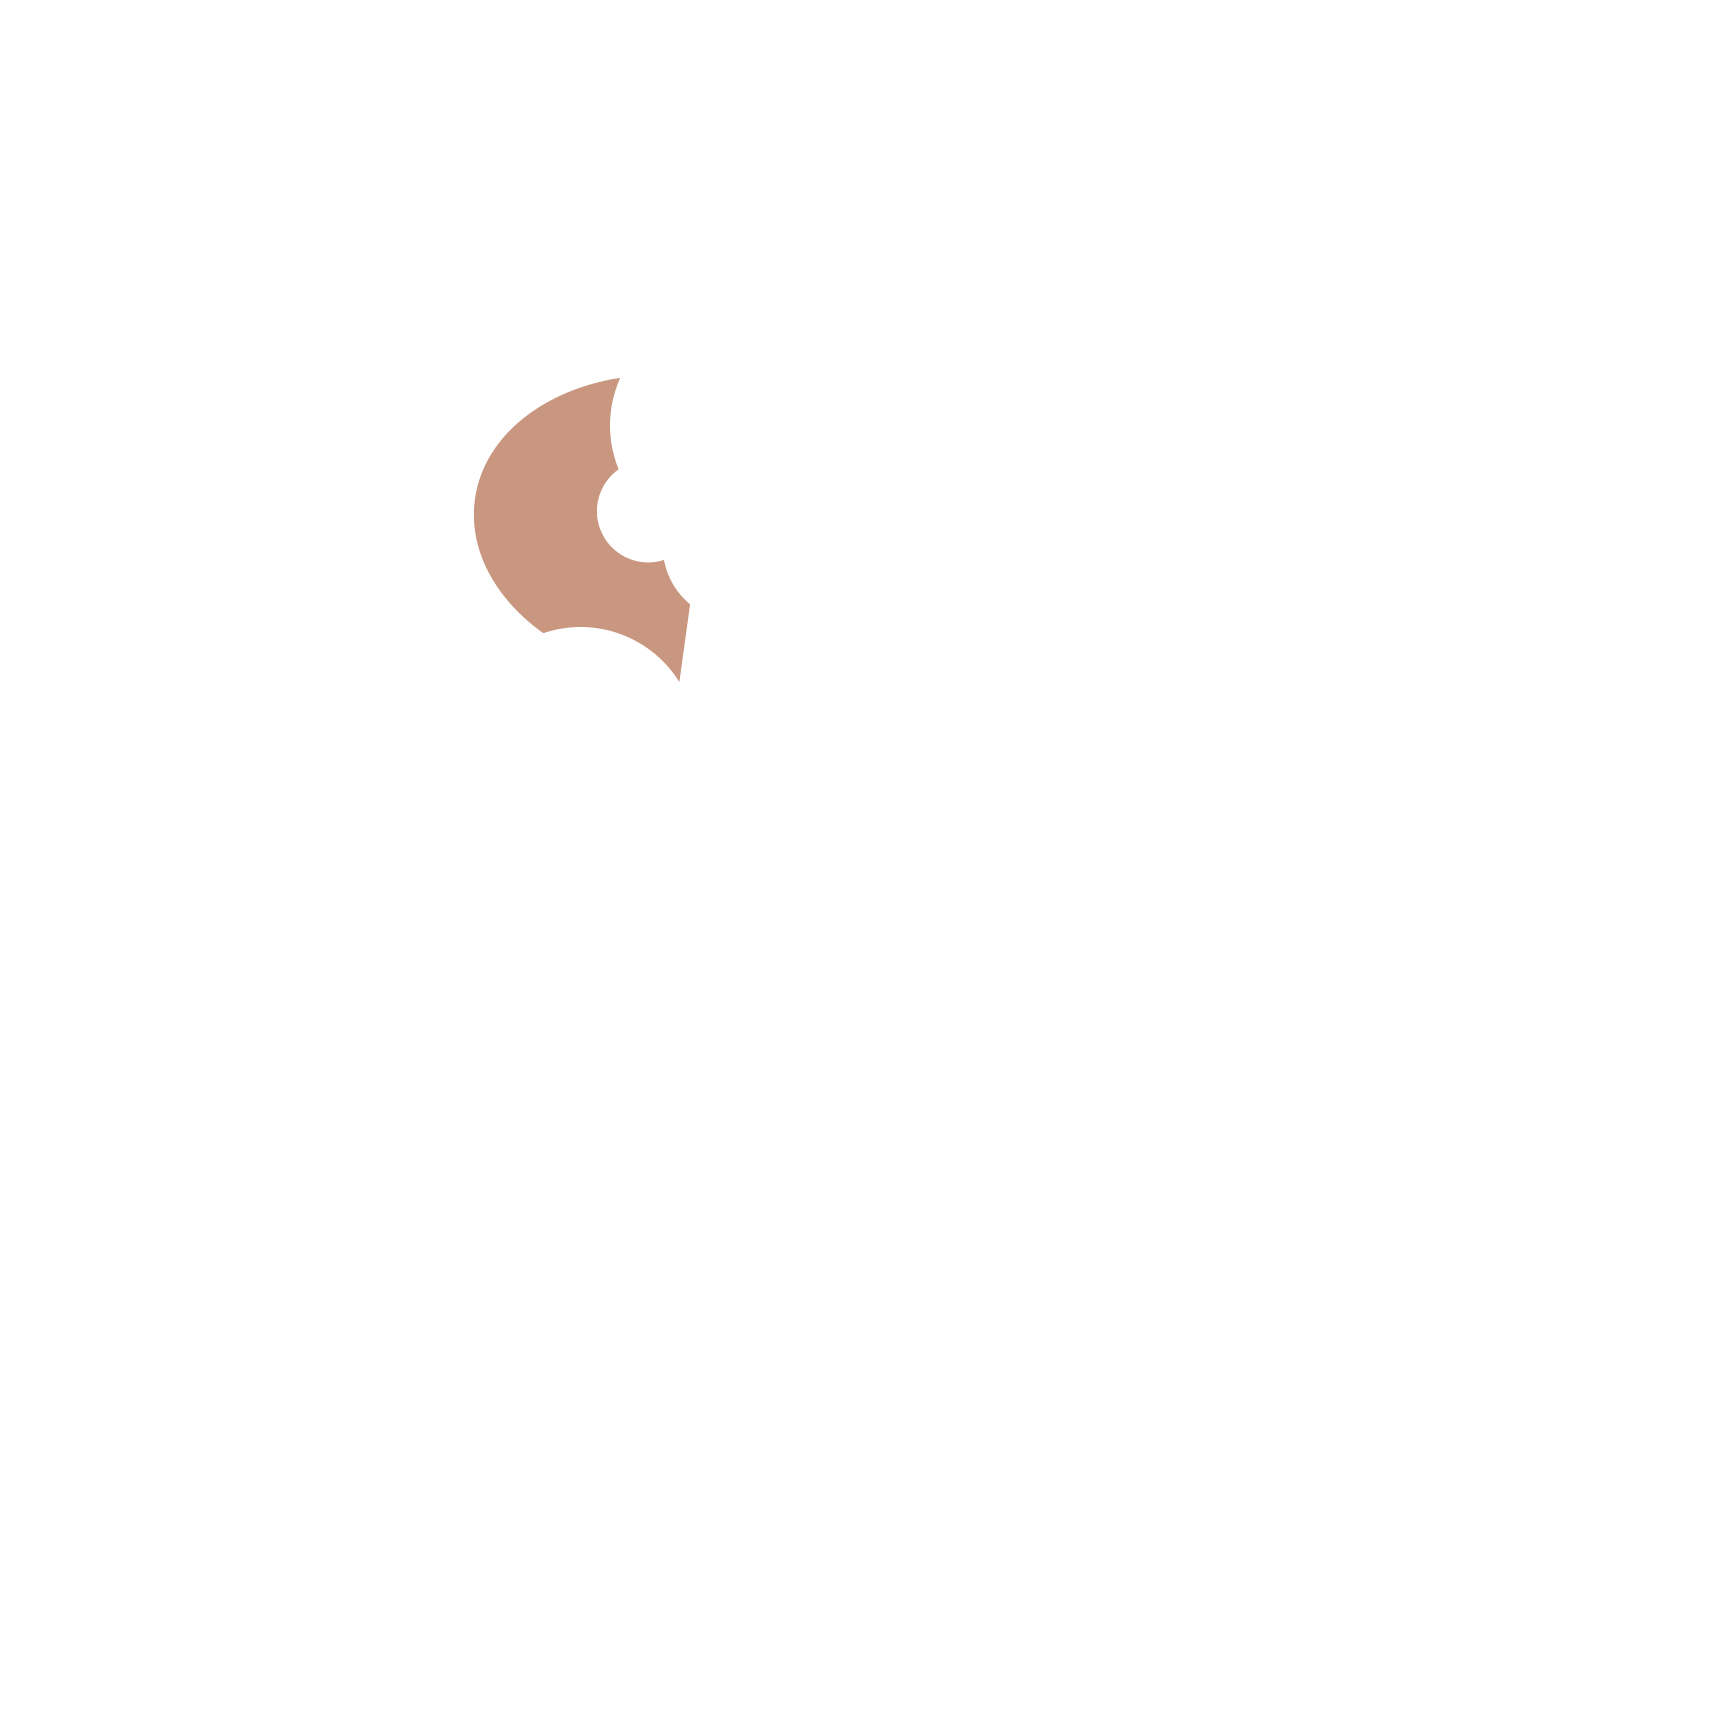
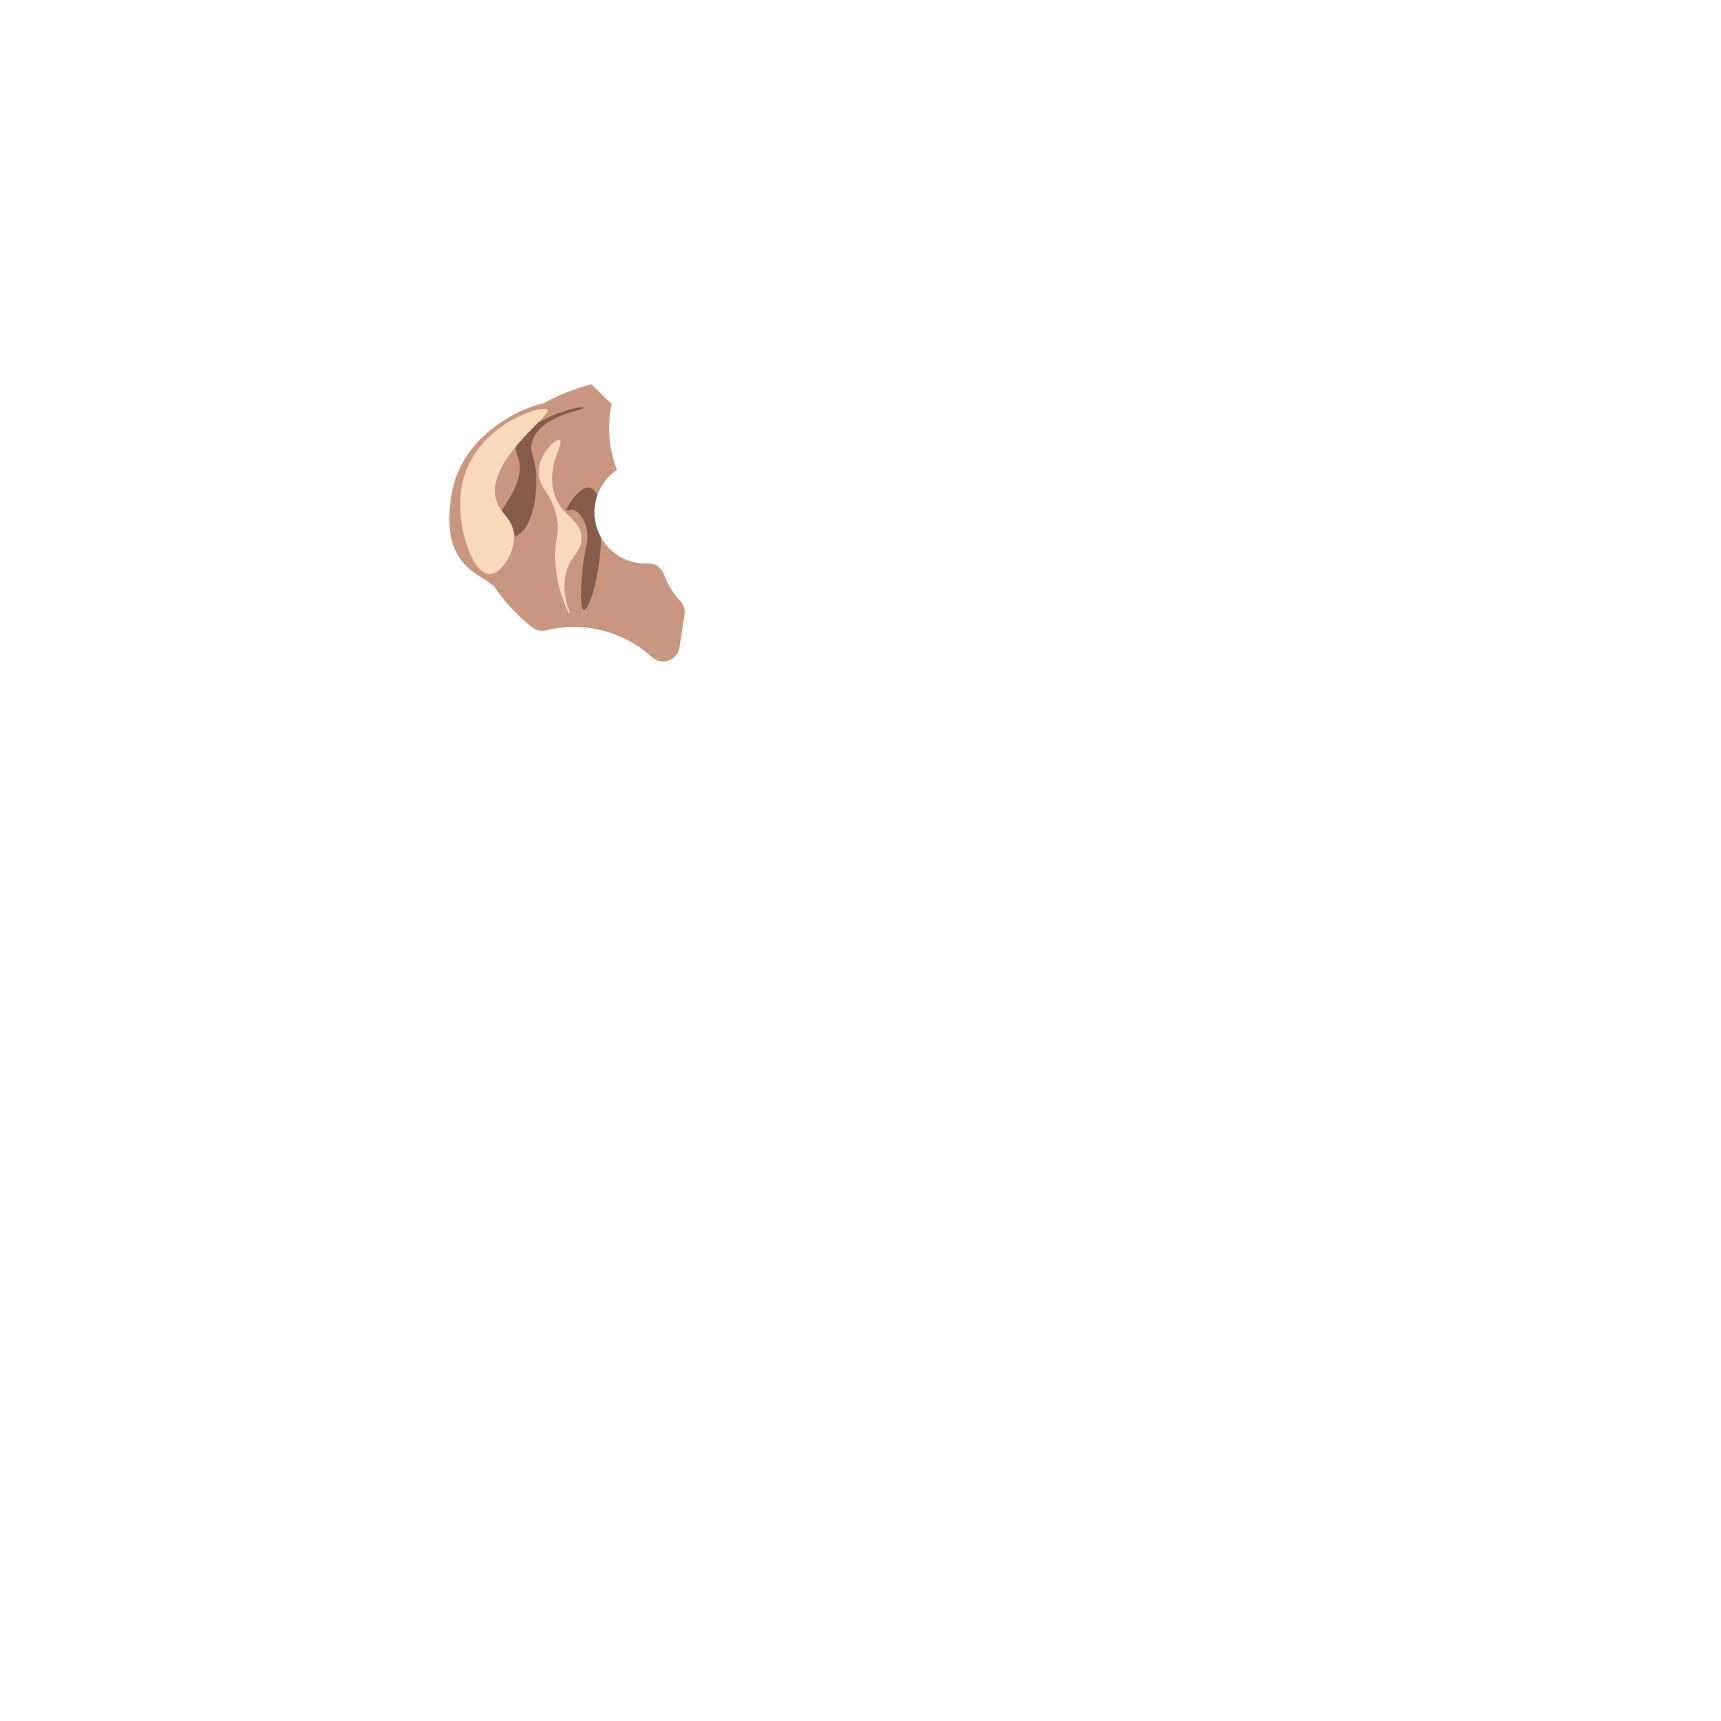
sausce+hourRoateSmooth

Changed region(s): [[0.2464, 0.2156, 0.4003, 0.4003]]

diff --git a/clock.js b/clock.js
@@ -2,25 +2,27 @@
  * use p5.js to draw a clock on a 960x500 canvas
  */
 
-let  img;
-function preload(){
-  img_1=loadImage('1plate.png');
-  img_hour=loadImage('1meat.png');
-  img_minute=loadImage('1asparagus.png');
-  img_seconds=loadImage('1green_pea.png');
-  img_fork=loadImage('1fork.png')
-  img_knife=loadImage('1knife.png')
+let img;
+
+function preload() {
+  img_1 = loadImage('1plate.png');
+  img_hour = loadImage('1meat.png');
+  img_minute = loadImage('1asparagus.png');
+  img_seconds = loadImage('1green_pea.png');
+  img_fork = loadImage('1fork.png')
+  img_knife = loadImage('1knife.png')
   img_table = loadImage('1table.png')
+  img_sauce = loadImage('1sauce.png')
 
 
 }
 
 function draw_clock(obj) {
-    let hours = obj.hours;
-    let minute = obj. minutes;
-    let seconds = obj.seconds;
-    let millis = obj.millis;
-    let alarm = obj.seconds_until_alarm;
+  let hours = obj.hours;
+  let minute = obj.minutes;
+  let seconds = obj.seconds;
+  let millis = obj.millis;
+  let alarm = obj.seconds_until_alarm;
 
   // draw your own clock here based on the values of obj:
   //    obj.hours goes from 0-23
@@ -34,148 +36,130 @@ function draw_clock(obj) {
   background(50); //  beige
   fill(200); // dark grey
   textSize(40);
-  
- 
-  text("Second:"+seconds, 80, 100);
-  text("Hours:"+hours, 50, 50);
-  text("minute:"+minute, 50, 150);
-  
-// reset the images point to 12:00
-  let seconds_origin =PI/30*39.5
-  let minute_origin =PI/30*55.85
-  let hour_origin = PI/30*7
+
+// testing text
+  // text("Second:" + seconds, 80, 100);
+  // text("Hours:" + hours, 50, 50);
+  // text("minute:" + minute, 50, 150);
+
+  // reset the images point to 12:00:00
+  let seconds_origin = PI / 30 * 39.5
+  let minute_origin = PI / 30 * 55.85
+  let hour_origin = PI / 30 * 7
 
 
-// let millis_map= map(millis,0,999,0,60)
-// let seconds_rotation = map(millis_map,0,60,0,PI/30)
-
-  let seconds_radius=map(seconds,0,59,1,150);
-  ellipse(100,100,seconds_radius);
-   
-
-
-// text(seconds_rotation,150,30)
-// text(seconds_origin+PI/30*seconds_rotation*seconds,150,350)
-
-// text(millis,150,300)
-
-    fill(255, 255, 0);
-    
-   
-    translate(width / 2, height / 2);
-    image(img_table,-480,-250,960,500)
-    image(img_1,-200,-200, 400, 400)
-
-
-
- 
-
-
-
-    push ();
-
-    rotate(hour_origin+PI/6*hours)
-    image(img_hour,-200,-200, 400, 400)
-    pop(); 
-
-    push ();
-
-    
-    rotate( minute_origin+PI/30*minute)
-    image(img_minute,-200,-200, 400, 400)
-    pop(); 
-
-
-    // rotate(PI/30*40-PI/60+PI/30*seconds_rotation)
-
-    // push ();
-    // rotate(seconds_origin+PI/30*seconds)
-    // image(img_seconds,-200,-200, 400, 400)
-    // pop();
-    
-    
-    push ();
-    let secondsWithFraction = obj.seconds + (obj.millis / 999.0);
-    let secondRotateSmooth = map(secondsWithFraction, 0, 60, 0, 360);
-
-    rotate(seconds_origin+secondRotateSmooth/60)
-    image(img_seconds,-200,-200, 400, 400)
-    pop(); 
+  // let millis_map= map(millis,0,999,0,60)
+  // let seconds_rotation = map(millis_map,0,60,0,PI/30)
 
 
 
 
 
- 
-  if(alarm > 0 && alarm < 1)  {
-  movement_A=map(millis,120,0,10,0);
-  print("change 1")
 
 
-  }
 
-  else if(alarm == 0){
-    if(millis>0)
-    movement_A=map(millis,500,50,50,0)
-  }
+  // import the still images:
+  translate(width / 2, height / 2);
+  image(img_table, -480, -250, 960, 500)
+  image(img_1, -200, -200, 400, 400)
+  image(img_sauce, -200, -200, 400, 400)
 
-    // else{
-    //   movement_A=map(millis,50,1000,0,50)
-    
-    //   }
-  
 
-  else{
-  movement_A = 0;
+
+
+
+
+// hours:
+  push();
+  let hoursWithFraction = obj.hours + (obj.minutes / 60);
+  let hourRotateSmooth = map(hoursWithFraction, 0, 23, 0, 12);
+  let rotation_1 = hour_origin + hourRotateSmooth
+  rotate(rotation_1)
+  image(img_hour, -200, -200, 400, 400)
+  pop();
+
+
+
+
+  // test texting:
+  // push();
+  // text("hwf" + hoursWithFraction, 50, 150)
+  // text("hrs" + hourRotateSmooth, 100, 250)
+  // text("rotation1" + rotation_1, 100, -100)
+  // pop();
+
+
+
+  // minutes:
+  push();
+  rotate(minute_origin + PI / 30 * minute)
+  image(img_minute, -200, -200, 400, 400)
+  pop();
+
+
+
+  // seconds
+  push();
+  let secondsWithFraction = obj.seconds + (obj.millis / 999.0);
+  let secondRotateSmooth = map(secondsWithFraction, 0, 60, 0, 360);
+
+  rotate(seconds_origin + secondRotateSmooth / 60)
+  image(img_seconds, -200, -200, 400, 400)
+  pop();
+
+
+
+
+
+//  alarm 
+  if (alarm > 0 && alarm < 1) {
+    movement_A = map(millis, 120, 0, 10, 0);
+    print("change 1")
+
+
+  } else if (alarm == 0) {
+    if (millis > 0)
+      movement_A = map(millis, 500, 50, 50, 0)
+  } else {
+    movement_A = 0;
 
   }
 
-  
-  if(alarm < 0 )  {
-    movement_B=0;
+
+  if (alarm < 0) {
+    movement_B = 0;
     print("change 2")
-  
-  
-    }
- 
-    if(alarm > 0 && alarm < 1)  {
-      movement_B=map(millis,100,50,10,0);
-      print("change 1")
-    
-    
-      }
-    
-      else if(alarm == 0){
-        if(millis>0)
-        movement_B=map(millis,50,0,10,0)
-      }
-    
-        // else{
-        //   movement_A=map(millis,50,1000,0,50)
-        
-        //   }
-      
-    
-      else{
-      movement_B = 0;
-    
-      }
-    
-      
-      if(alarm < 0 )  {
-        movement_B=0;
-        print("change 2")
-      
-      
-        }
+
+
+  }
+
+  if (alarm > 0 && alarm < 1) {
+    movement_B = map(millis, 100, 50, 10, 0);
+    print("change 1")
+
+
+  } else if (alarm == 0) {
+    if (millis > 0)
+      movement_B = map(millis, 50, 0, 10, 0)
+  } else {
+    movement_B = 0;
+
+  }
+
+
+  if (alarm < 0) {
+    movement_B = 0;
+    print("change 2")
+
+
+  }
 
 
 
 
-  image(img_fork,-480,-250+movement_A/2,960,500)
-  image(img_knife,-480,-250-movement_B/3,960,500)
+  image(img_fork, -480, -250 + movement_A / 2, 960, 500)
+  image(img_knife, -480, -250 - movement_B / 3, 960, 500)
 
-  
-  
+
 
 }
